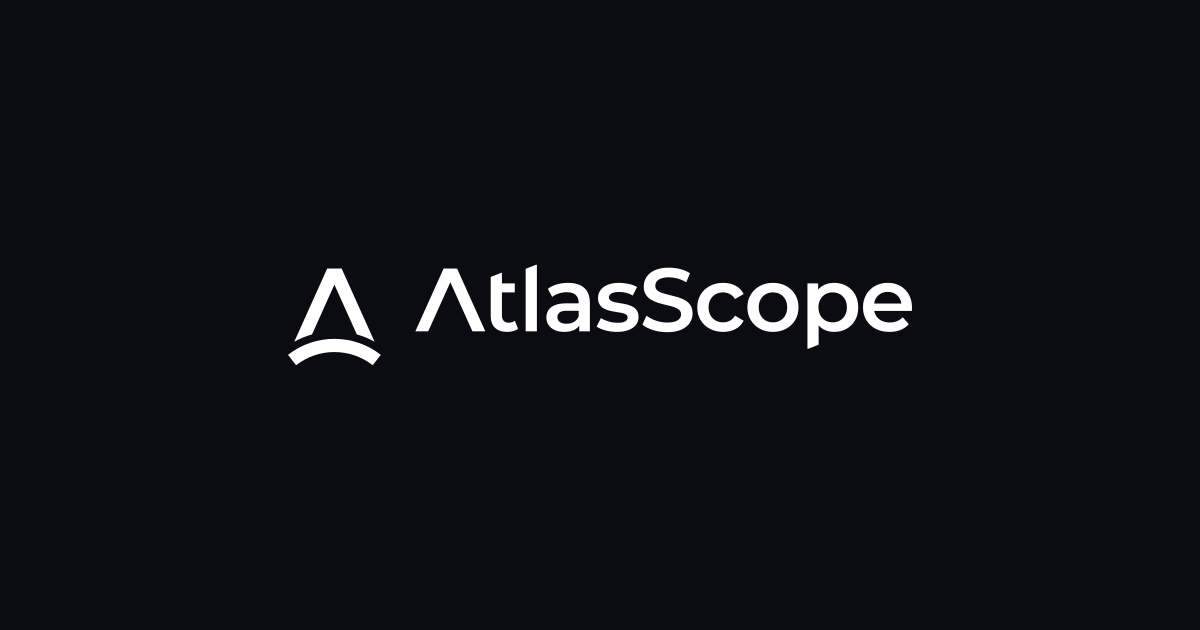
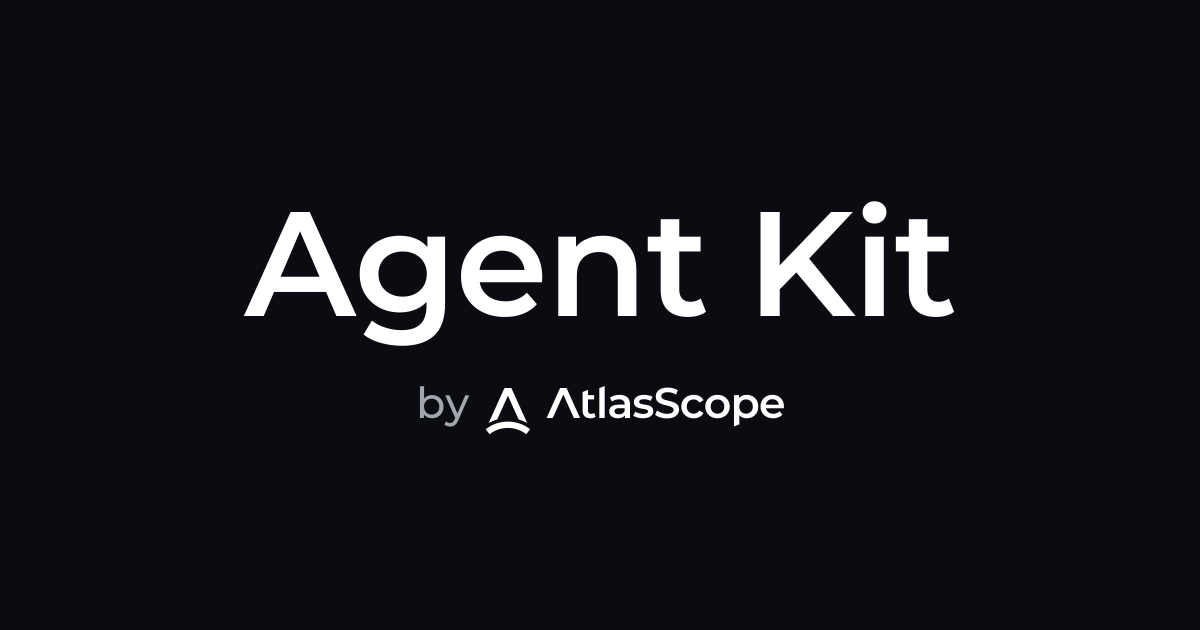
Say "Agent Kit" in the site's link preview image
The link preview showed only the AtlasScope lockup. It now leads with
"Agent Kit" and signs it "by AtlasScope", built from the brand source
like the other share images. Alt text updated to match.

Changed region(s): [[0.185, 0.3016, 0.8017, 0.573], [0.3392, 0.6032, 0.6783, 0.6937]]

diff --git a/design/atlasscope/source/build.py b/design/atlasscope/source/build.py
@@ -170,6 +170,23 @@ def social():
         s = w * 0.52 / lw
         body, lw, lh = lockup((w - lw * s) / 2, (h - lh * s) / 2, s, WHITE)
         write(f"social/src/{name}.svg", svg(w, h, body, "AtlasScope", bg=INK), [(f"social/{name}.png", w)])
+    # Link preview for the Agent Kit site: the product name leads, the AtlasScope lockup signs it.
+    w, h = 1200, 630
+    title_cap, by_cap, gap = 104, 30, 72
+    title, tw = G.text_path("Agent Kit", 0, 0, title_cap, 600, track=-12)
+    _, lw, _ = lockup(0, 0, 1, WHITE)
+    s = by_cap / G.CAP
+    _, bw = G.text_path("by", 0, 0, by_cap, 500)
+    by_gap = X * 1.1 * s
+    row_w = bw + by_gap + lw * s
+    top = (h - (title_cap + gap + by_cap)) / 2
+    base1, base2 = top + title_cap, top + title_cap + gap + by_cap
+    body = path(G.text_path("Agent Kit", w / 2, base1, title_cap, 600, track=-12, anchor="middle")[0], WHITE)
+    x0 = (w - row_w) / 2
+    body += path(G.text_path("by", x0, base2, by_cap, 500)[0], MUTED)
+    body += lockup(x0 + bw + by_gap, base2 - ASC * s, s, WHITE)[0]
+    write("social/src/og-agent-kit-1200x630.svg", svg(w, h, body, "Agent Kit by AtlasScope", bg=INK),
+          [("social/og-agent-kit-1200x630.png", w)])
 
 
 # ---- Application mock-ups ------------------------------------------------------------------

diff --git a/design/atlasscope/source/export_site.py b/design/atlasscope/source/export_site.py
@@ -15,7 +15,7 @@ COPIES = {
     "icons/favicon.svg": "app/icon.svg",
     "icons/favicon.ico": "app/favicon.ico",
     "icons/apple-touch-icon.png": "app/apple-icon.png",
-    "social/og-1200x630.png": "app/opengraph-image.png",
+    "social/og-agent-kit-1200x630.png": "app/opengraph-image.png",
 }
 
 
@@ -23,7 +23,7 @@ def main():
     for src, dst in COPIES.items():
         shutil.copyfile(os.path.join(ROOT, src), os.path.join(SITE, dst))
     with open(os.path.join(SITE, "app/opengraph-image.alt.txt"), "w") as fh:
-        fh.write("AtlasScope\n")
+        fh.write("Agent Kit by AtlasScope\n")
     # header logo: the lockup for wide screens, the symbol alone for narrow ones
     _, lw, lh = B.lockup(0, 0, 1, "currentColor")
     m, sw, sh = B.sym_box()

diff --git a/design/atlasscope/SPEC.md b/design/atlasscope/SPEC.md
@@ -109,7 +109,7 @@ Licence: Montserrat is under the SIL Open Font License 1.1 ([source/fonts/Montse
 | `svg/padded/` | The same with clear space built in |
 | `png/` | Transparent PNGs: lockup 600/1200/2400, wordmark 500/1000/2000, symbol 256/512/1024 wide |
 | `icons/` | `favicon.svg`, `favicon.ico` (16, 32, 48), `apple-touch-icon.png` (180), app icons 64 to 1024, maskable 192 and 512 |
-| `social/` | Avatars 400 and 1024 (dark and light), share images 1200×630 and 1280×640 |
+| `social/` | Avatars 400 and 1024 (dark and light), share images 1200×630 and 1280×640, and the Agent Kit site's link preview (`og-agent-kit-1200x630`) |
 | `applications/` | Mock-ups: headers, avatar, app icon, share image, size test |
 | `spec/` | Construction sheet |
 | `source/` | `geometry.py` (every number), `build.py` (regenerates everything), the font and its licence |
